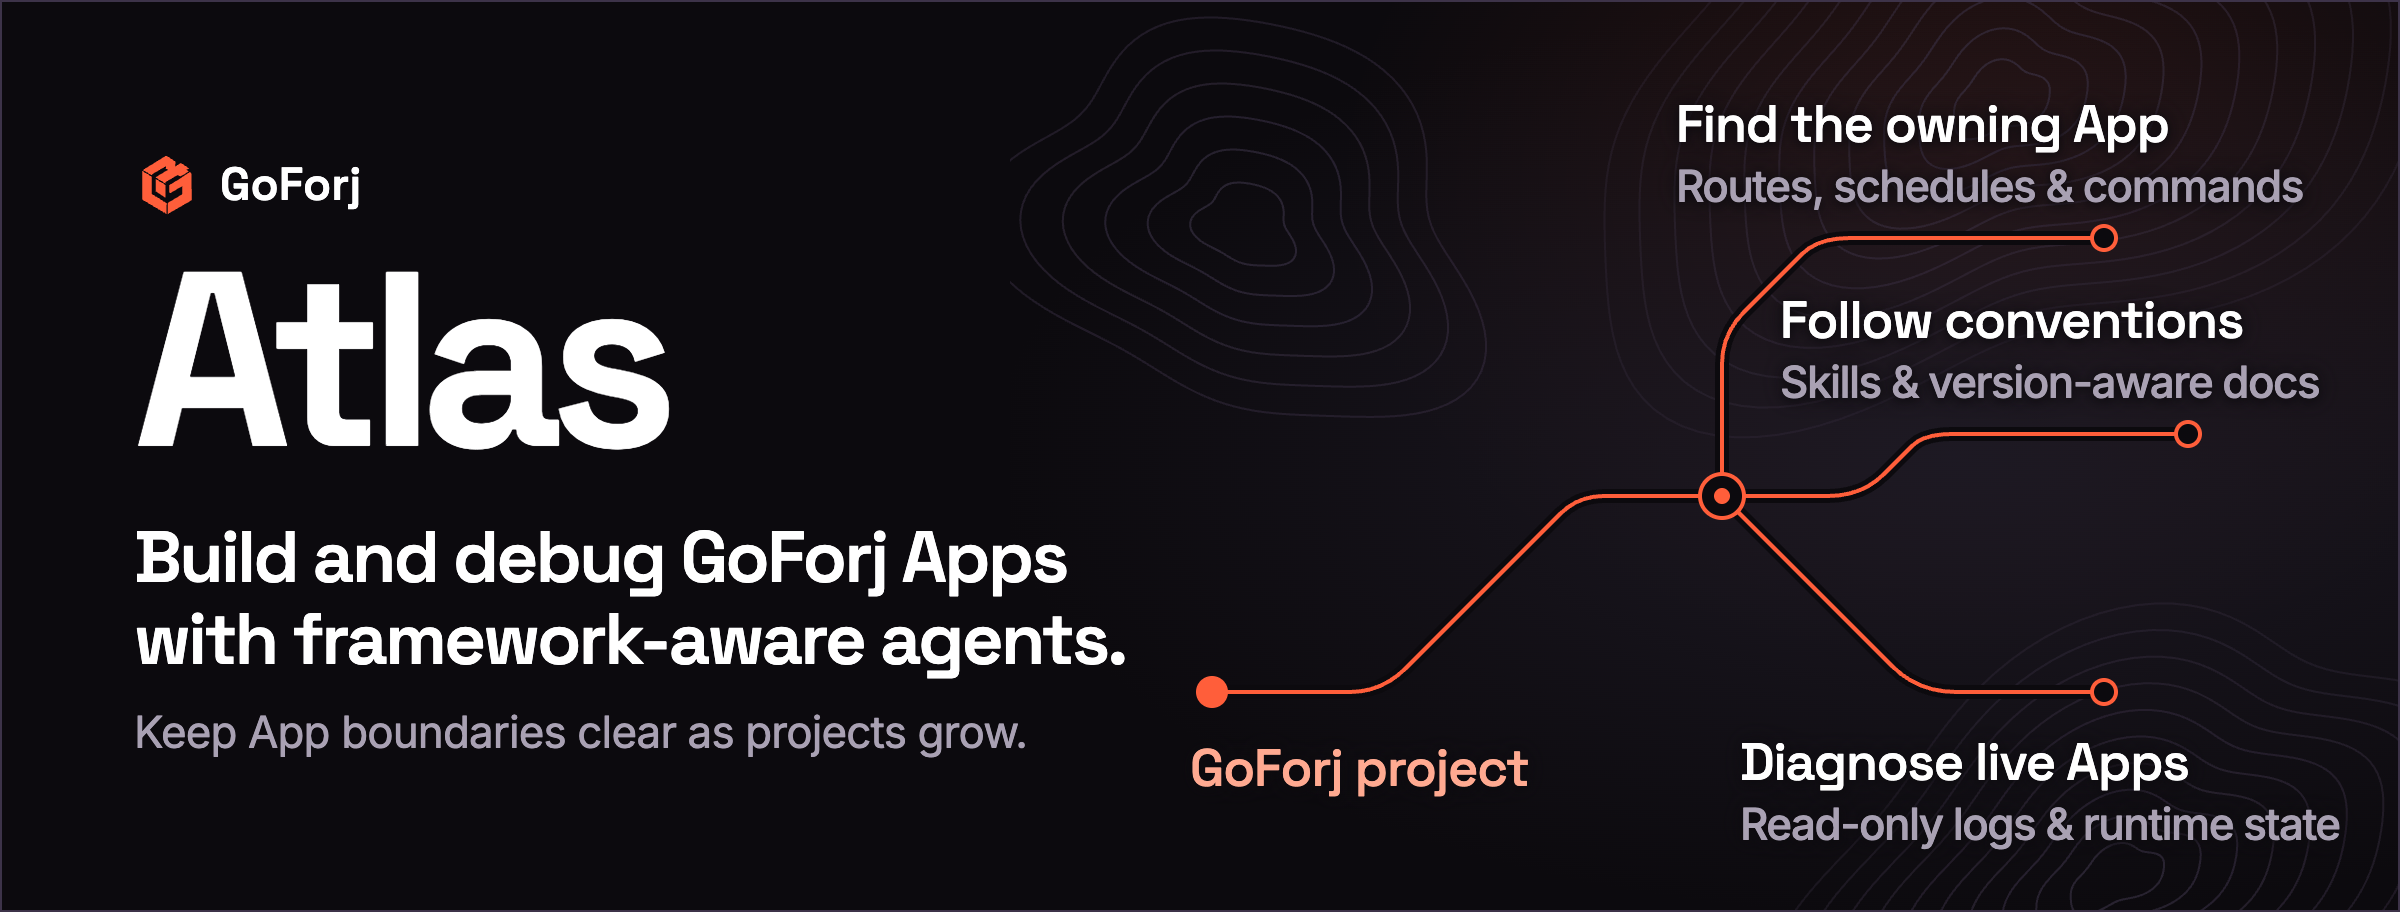
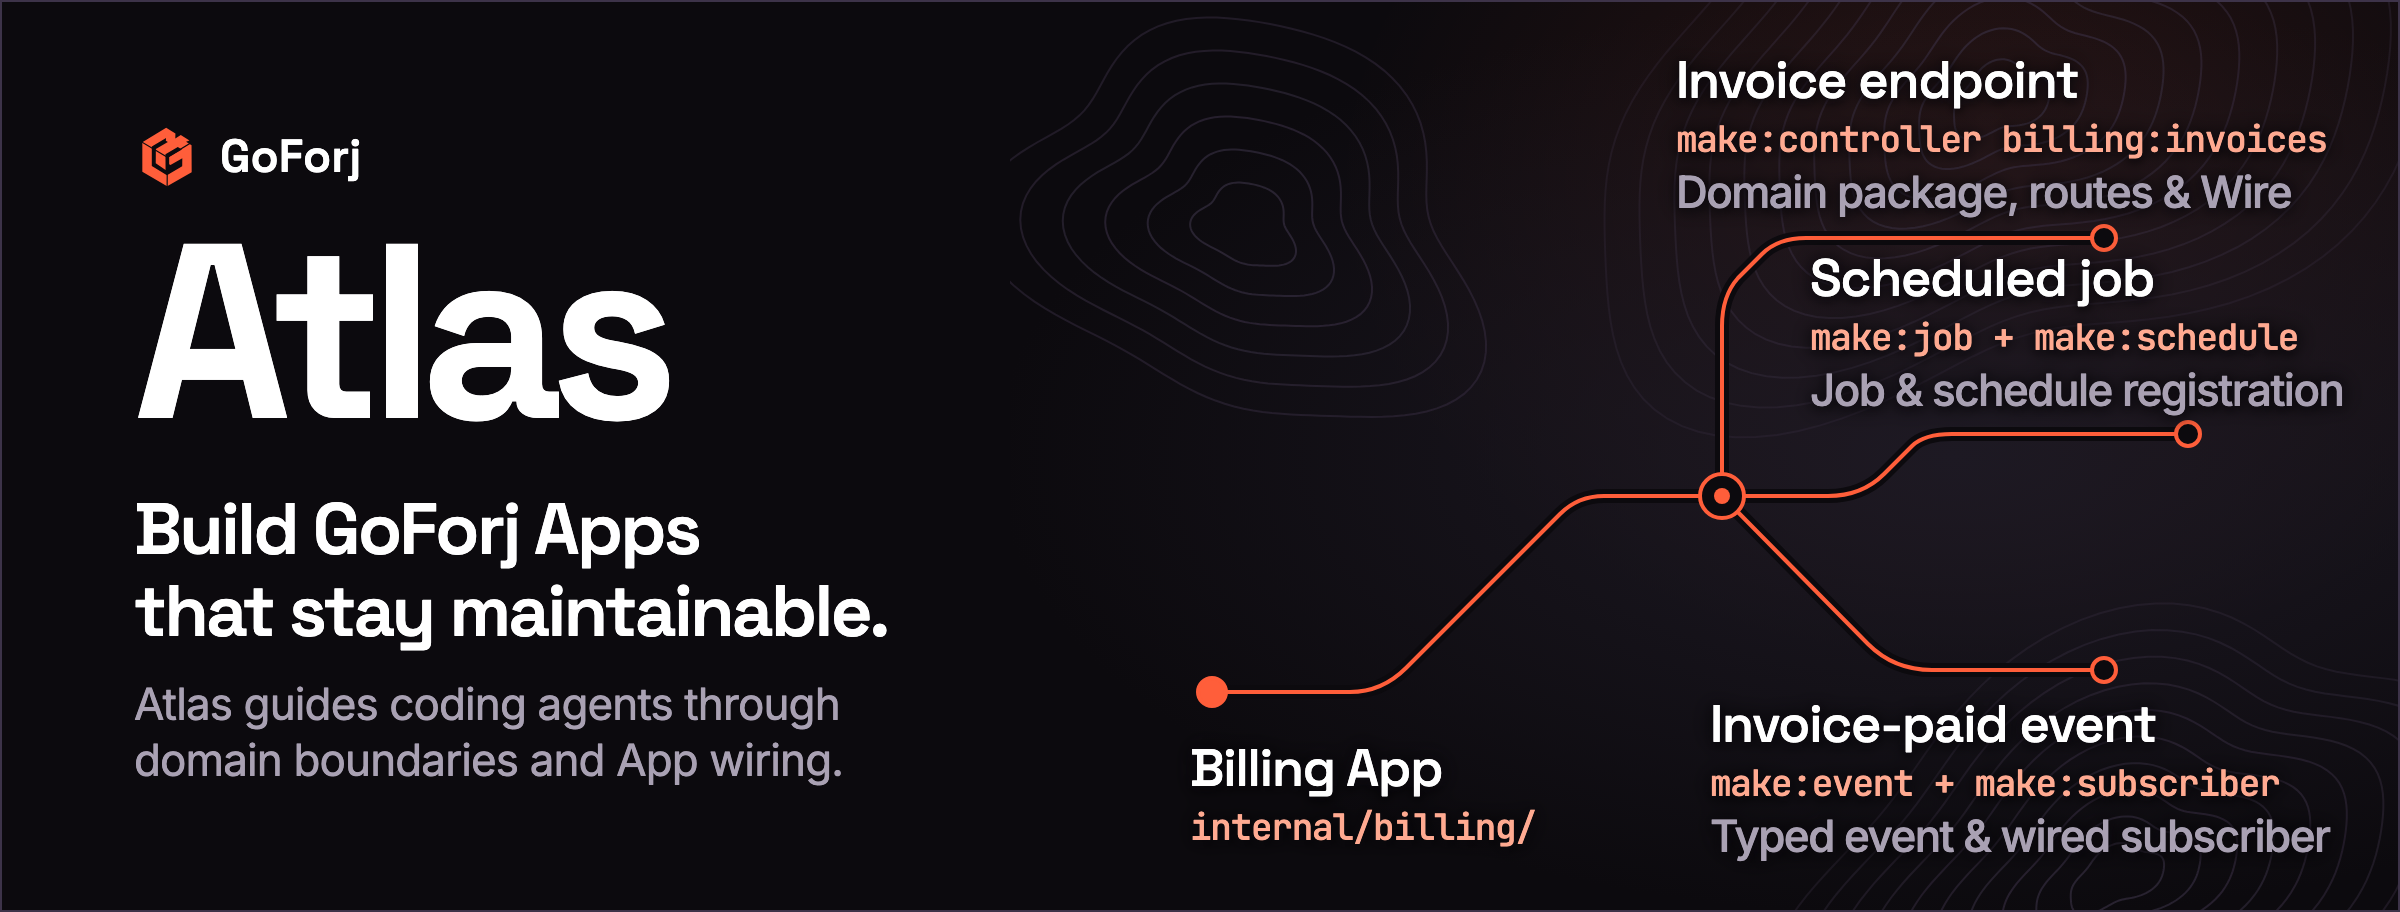
docs: illustrate Atlas with real GoForj workflows

diff --git a/docs/assets/banner.html b/docs/assets/banner.html
@@ -7,7 +7,7 @@
 <title>GoForj Atlas banner</title>
 <!-- Capture .banner at 1200 by 456 CSS pixels with device scale factor 2. -->
 <link rel="stylesheet" href="https://goforj.dev/design-system.css">
-<link rel="stylesheet" href="https://fonts.googleapis.com/css2?family=Space+Grotesk:wght@500;600;700&family=Inter:wght@400;500;600&display=swap">
+<link rel="stylesheet" href="https://fonts.googleapis.com/css2?family=Space+Grotesk:wght@500;600;700&family=Inter:wght@400;500;600&family=JetBrains+Mono:wght@500&display=swap">
 <style>
 * { box-sizing: border-box; }
 
@@ -107,10 +107,18 @@ h1 {
   letter-spacing: -.035em;
 }
 
-.project { left: 90px; top: 369px; color: var(--gf-reference); }
-.structure { left: 333px; top: 47px; }
-.guidance { left: 385px; top: 145px; }
-.runtime { left: 365px; top: 366px; }
+.artifact {
+  display: block;
+  margin-top: 4px;
+  color: var(--gf-reference);
+  font: 500 18px/1.2 var(--gf-font-mono);
+  letter-spacing: -.035em;
+}
+
+.project { left: 90px; top: 369px; }
+.endpoint { left: 333px; top: 25px; }
+.scheduled { left: 400px; top: 124px; }
+.event { left: 350px; top: 347px; }
 </style>
 </head>
 <body>
@@ -121,23 +129,29 @@ h1 {
       <span>GoForj</span>
     </div>
     <h1>Atlas</h1>
-    <p class="summary">Build and debug GoForj Apps<br>with framework-aware agents.</p>
-    <p class="growth">Keep App boundaries clear as projects grow.</p>
+    <p class="summary">Build GoForj Apps<br>that stay maintainable.</p>
+    <p class="growth">Atlas guides coding agents through<br>domain boundaries and App wiring.</p>
   </div>
-  <figure class="map" role="img" aria-label="Atlas helps agents find the owning App through routes, schedules, and commands, follow conventions with skills and version-aware docs, and diagnose live Apps with read-only logs and runtime state.">
+  <figure class="map" role="img" aria-label="Three examples in a Billing App. An invoice controller lives in its domain package and connects to routes and Wire. Reconciliation uses a registered job and schedule. An invoice-paid event uses a typed event and a wired subscriber.">
     <canvas width="1388" height="908" aria-hidden="true"></canvas>
-    <span class="place project" aria-hidden="true">GoForj project</span>
-    <span class="place structure" aria-hidden="true">
-      Find the owning App
-      <span class="detail">Routes, schedules &amp; commands</span>
+    <span class="place project" aria-hidden="true">
+      Billing App
+      <code class="artifact">internal/billing/</code>
     </span>
-    <span class="place guidance" aria-hidden="true">
-      Follow conventions
-      <span class="detail">Skills &amp; version-aware docs</span>
+    <span class="place endpoint" aria-hidden="true">
+      Invoice endpoint
+      <code class="artifact">make:controller billing:invoices</code>
+      <span class="detail">Domain package, routes &amp; Wire</span>
     </span>
-    <span class="place runtime" aria-hidden="true">
-      Diagnose live Apps
-      <span class="detail">Read-only logs &amp; runtime state</span>
+    <span class="place scheduled" aria-hidden="true">
+      Scheduled job
+      <code class="artifact">make:job + make:schedule</code>
+      <span class="detail">Job &amp; schedule registration</span>
+    </span>
+    <span class="place event" aria-hidden="true">
+      Invoice-paid event
+      <code class="artifact">make:event + make:subscriber</code>
+      <span class="detail">Typed event &amp; wired subscriber</span>
     </span>
   </figure>
 </main>
@@ -182,9 +196,9 @@ context.lineCap = "round"
 context.lineJoin = "round"
 const routes = new Path2D(
   "M101 345H170Q186 345 198 333L275 256Q284 247 297 247H356" +
-  "M356 247V181Q356 166 367 155L396 126Q404 118 420 118H547" +
+  "M356 247V162Q356 147 364 138L376 126Q384 118 398 118H547" +
   "M356 247H409Q426 247 437 236L451 222Q457 216 471 216H589" +
-  "M356 247L441 332Q454 345 473 345H547"
+  "M356 247L429 321Q442 334 461 334H547"
 )
 
 context.strokeStyle = token("--gf-ground-deep")
@@ -198,7 +212,7 @@ for (const [x, y, radius, filled] of [
   [101, 345, 7, true],
   [547, 118, 6, false],
   [589, 216, 6, false],
-  [547, 345, 6, false],
+  [547, 334, 6, false],
 ]) {
   context.beginPath()
   context.arc(x, y, radius, 0, Math.PI * 2)

diff --git a/README.md b/README.md
@@ -1,17 +1,18 @@
 # GoForj Atlas
 
 <p align="center">
-  <img src="https://raw.githubusercontent.com/goforj/atlas/main/docs/assets/banner.png" alt="GoForj Atlas gives coding agents access to App routes, schedules, and commands, reusable skills and version-aware docs, and read-only runtime diagnostics.">
+  <img src="https://raw.githubusercontent.com/goforj/atlas/main/docs/assets/banner.png" alt="Atlas guides coding agents through GoForj domain packages and App wiring. Examples show an invoice endpoint, scheduled reconciliation, and a typed event with a subscriber.">
 </p>
 
-Atlas gives coding agents the framework context to build and debug GoForj
-Apps. Agents can find the App that owns a route, schedule, or command, follow
-project conventions with reusable skills and version-aware docs, and inspect
-the running App through read-only diagnostics. That context helps keep App
-boundaries clear as projects grow.
+Atlas helps coding agents build GoForj Apps that stay maintainable as projects
+grow. Its guidance keeps business behavior in domain packages under
+`internal/<domain>` and directs registration and wiring to the App that owns
+the change.
 
-Atlas installs project guidance, synchronizes skills or agent-native
-instruction files, and configures one project-level MCP server.
+Atlas installs reusable skills or agent-native instructions and configures one
+project-level MCP server. Agents can look up version-aware docs, inspect the
+project's App and resource boundaries, and use read-only diagnostics to check
+runtime behavior.
 
 Users should normally reach Atlas through the GoForj CLI:
 
@@ -64,9 +65,14 @@ write-capable MCP tools in the MVP.
 When source scaffolding is needed, agents should use normal GoForj commands:
 
 ```bash
-forj make:controller users
+forj billing make:controller billing:invoices
 forj marketplace make:job sync-catalog
 ```
+
+For a Project with a `billing` App and Web API enabled, the controller command
+creates `internal/billing/invoices/controller.go`, registers its routes in
+`app/billing/routes.go`, and adds its constructor to the App's Wire set in
+`app/billing/wire/inject_http_controllers_app.go`.
 
 ## Live Agent Evaluation
 
